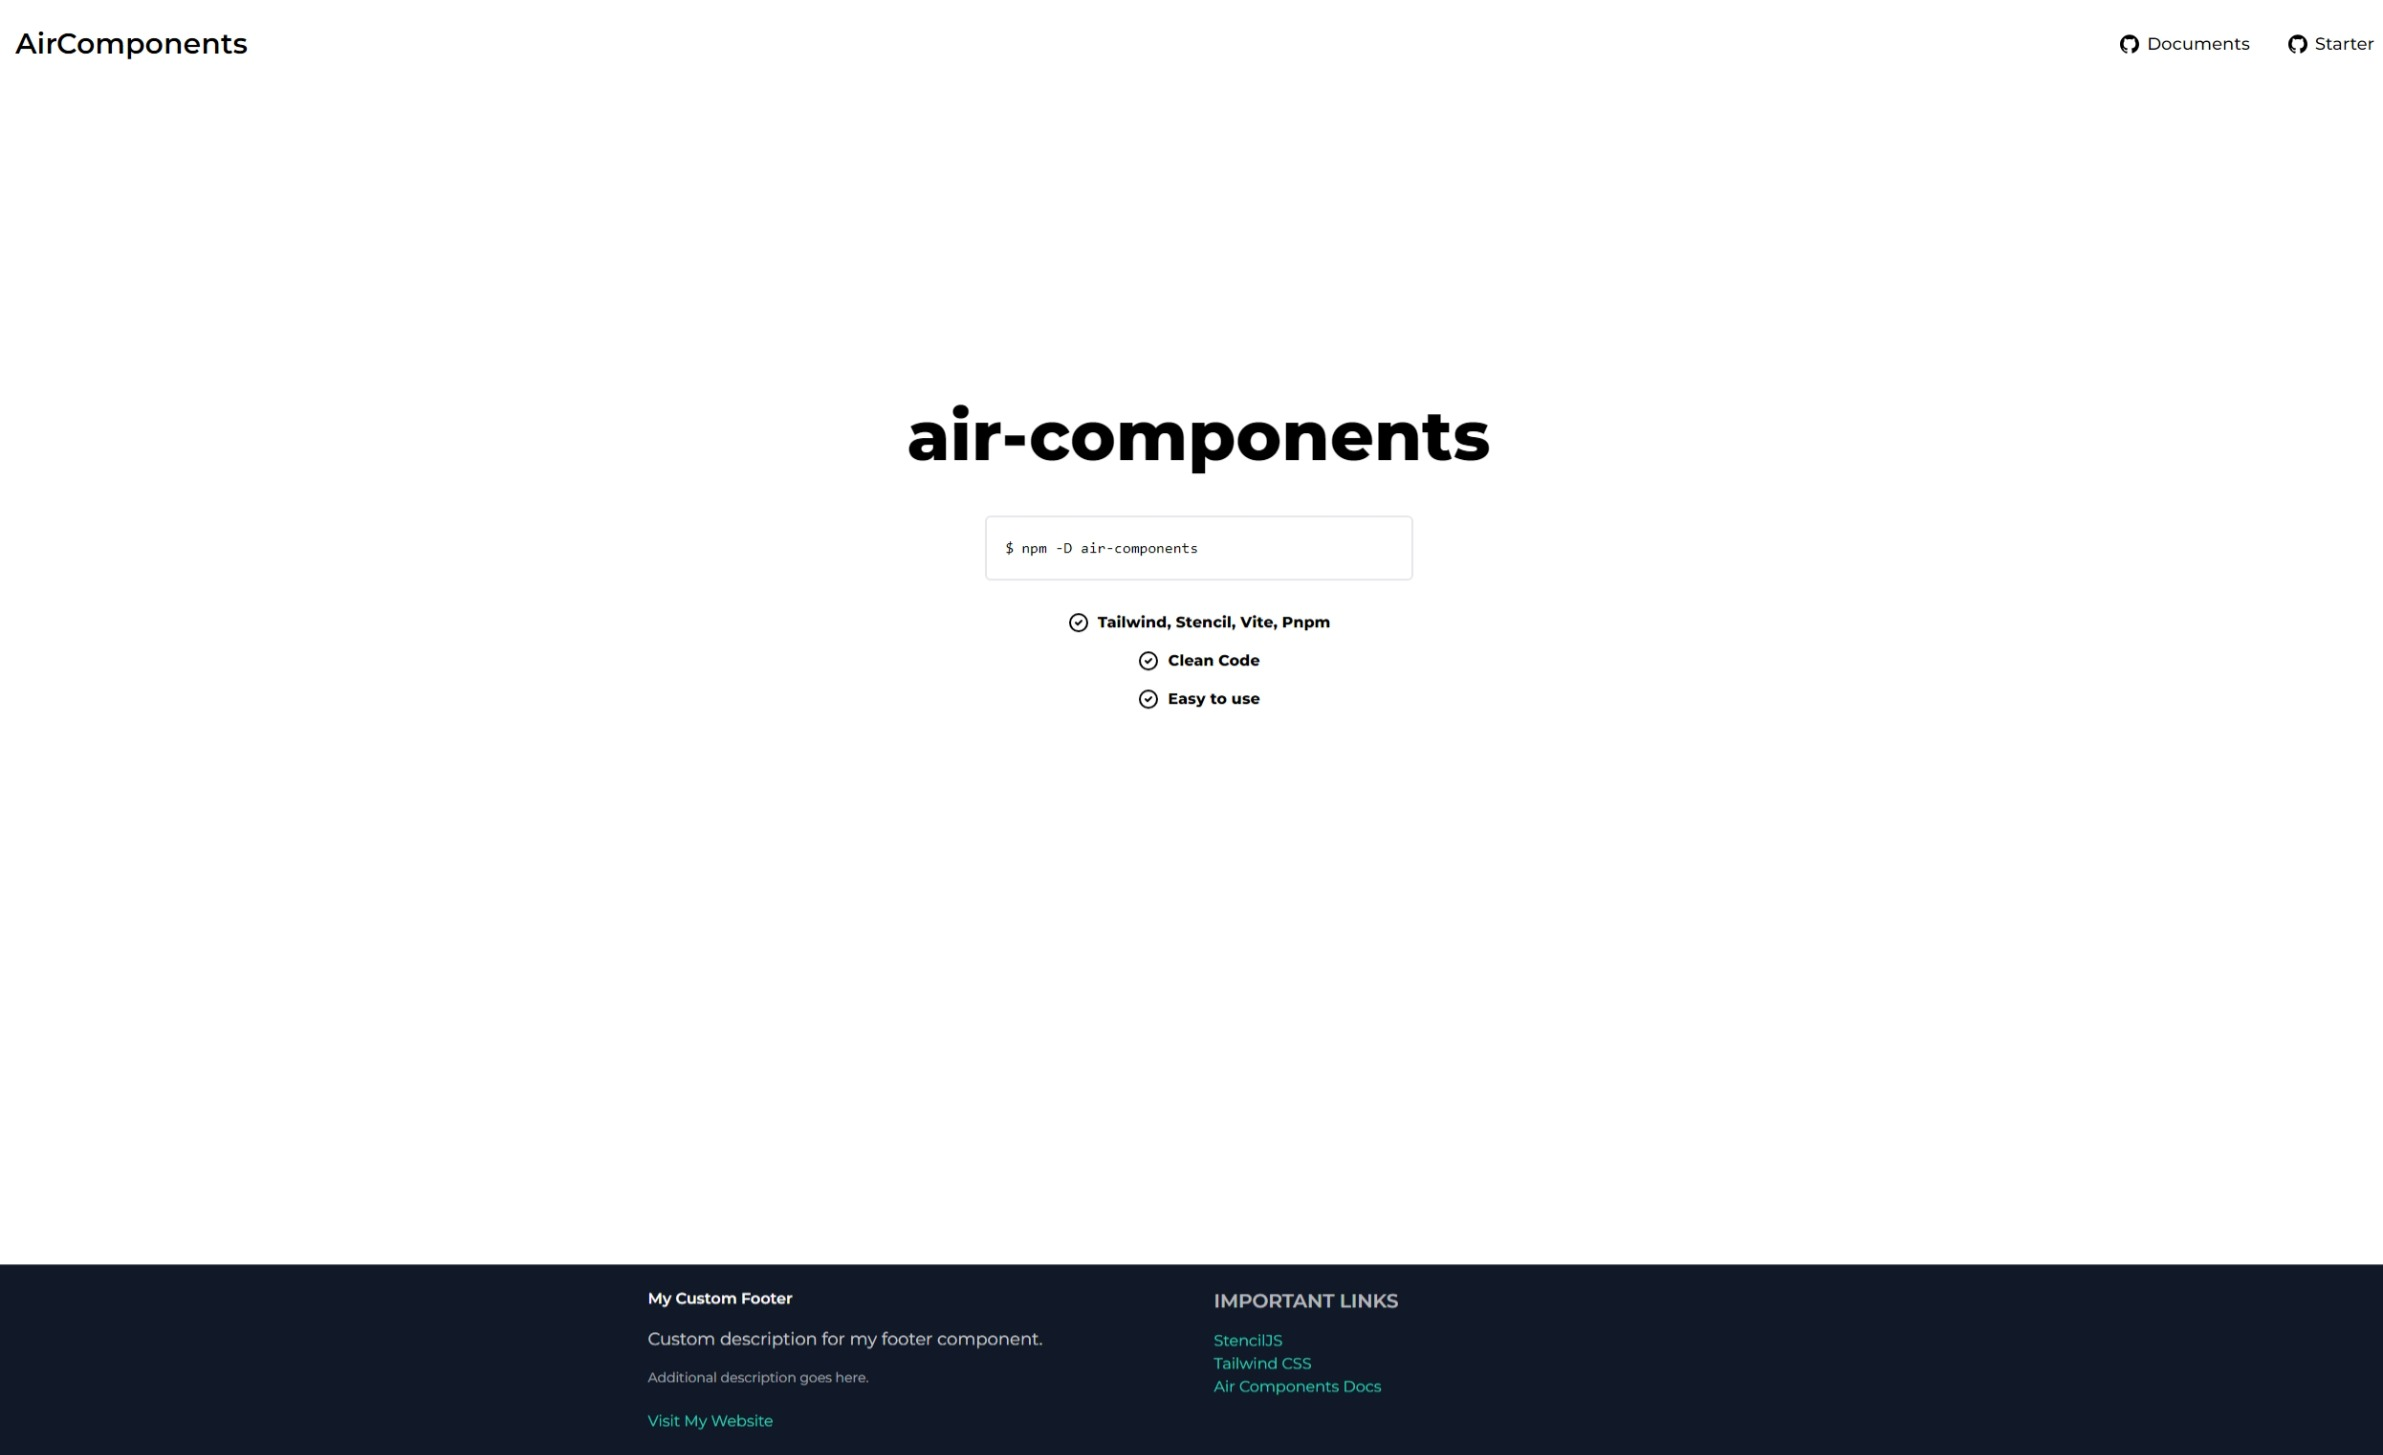
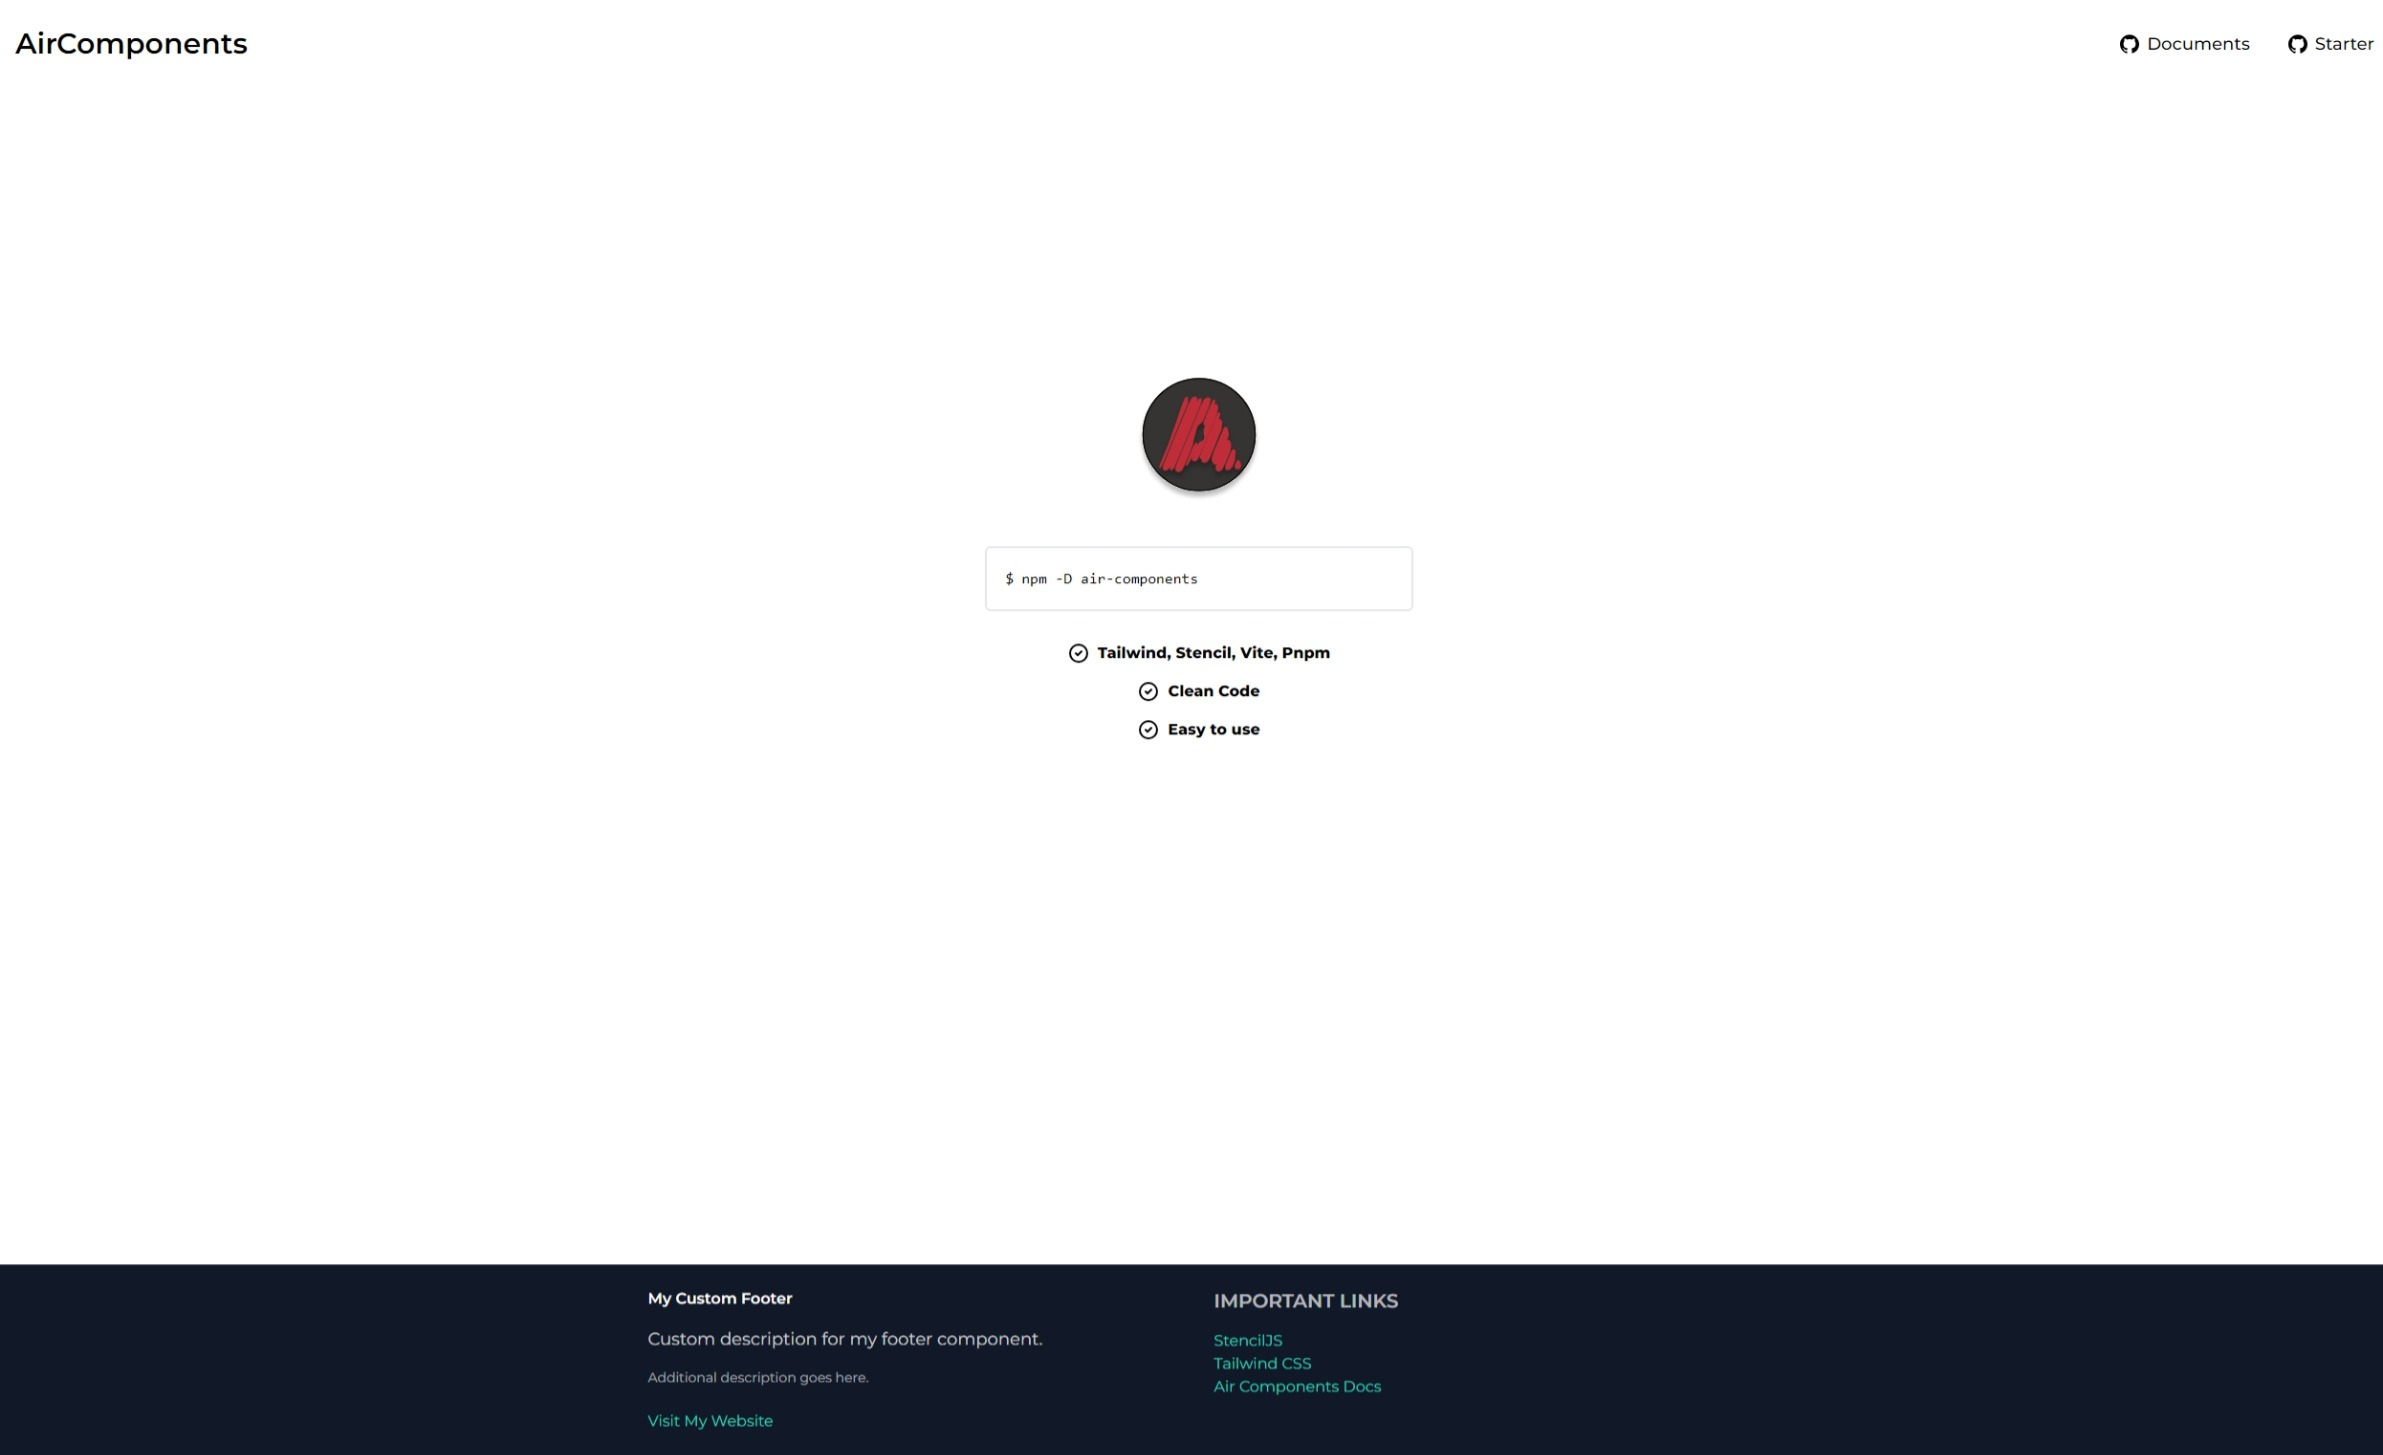
update

Changed region(s): [[0.3726, 0.2474, 0.6211, 0.3402], [0.4347, 0.3711, 0.559, 0.5258]]

diff --git a/src/components.d.ts b/src/components.d.ts
@@ -33,6 +33,8 @@ export namespace Components {
         "tags": string[];
         "title": string;
     }
+    interface AirExample {
+    }
     interface AirFootNav {
     }
     interface AirLinkButton {
@@ -53,8 +55,6 @@ export namespace Components {
         "titleText": string;
         "titleTextColor": string;
     }
-    interface HeroSection {
-    }
 }
 declare global {
     interface HTMLAirAvatarElement extends Components.AirAvatar, HTMLStencilElement {
@@ -74,6 +74,12 @@ declare global {
     var HTMLAirCardElement: {
         prototype: HTMLAirCardElement;
         new (): HTMLAirCardElement;
+    };
+    interface HTMLAirExampleElement extends Components.AirExample, HTMLStencilElement {
+    }
+    var HTMLAirExampleElement: {
+        prototype: HTMLAirExampleElement;
+        new (): HTMLAirExampleElement;
     };
     interface HTMLAirFootNavElement extends Components.AirFootNav, HTMLStencilElement {
     }
@@ -99,21 +105,15 @@ declare global {
         prototype: HTMLAirTopbarElement;
         new (): HTMLAirTopbarElement;
     };
-    interface HTMLHeroSectionElement extends Components.HeroSection, HTMLStencilElement {
-    }
-    var HTMLHeroSectionElement: {
-        prototype: HTMLHeroSectionElement;
-        new (): HTMLHeroSectionElement;
-    };
     interface HTMLElementTagNameMap {
         "air-avatar": HTMLAirAvatarElement;
         "air-button": HTMLAirButtonElement;
         "air-card": HTMLAirCardElement;
+        "air-example": HTMLAirExampleElement;
         "air-foot-nav": HTMLAirFootNavElement;
         "air-link-button": HTMLAirLinkButtonElement;
         "air-row": HTMLAirRowElement;
         "air-topbar": HTMLAirTopbarElement;
-        "hero-section": HTMLHeroSectionElement;
     }
 }
 declare namespace LocalJSX {
@@ -144,6 +144,8 @@ declare namespace LocalJSX {
         "tags"?: string[];
         "title"?: string;
     }
+    interface AirExample {
+    }
     interface AirFootNav {
     }
     interface AirLinkButton {
@@ -164,17 +166,15 @@ declare namespace LocalJSX {
         "titleText"?: string;
         "titleTextColor"?: string;
     }
-    interface HeroSection {
-    }
     interface IntrinsicElements {
         "air-avatar": AirAvatar;
         "air-button": AirButton;
         "air-card": AirCard;
+        "air-example": AirExample;
         "air-foot-nav": AirFootNav;
         "air-link-button": AirLinkButton;
         "air-row": AirRow;
         "air-topbar": AirTopbar;
-        "hero-section": HeroSection;
     }
 }
 export { LocalJSX as JSX };
@@ -184,11 +184,11 @@ declare module "@stencil/core" {
             "air-avatar": LocalJSX.AirAvatar & JSXBase.HTMLAttributes<HTMLAirAvatarElement>;
             "air-button": LocalJSX.AirButton & JSXBase.HTMLAttributes<HTMLAirButtonElement>;
             "air-card": LocalJSX.AirCard & JSXBase.HTMLAttributes<HTMLAirCardElement>;
+            "air-example": LocalJSX.AirExample & JSXBase.HTMLAttributes<HTMLAirExampleElement>;
             "air-foot-nav": LocalJSX.AirFootNav & JSXBase.HTMLAttributes<HTMLAirFootNavElement>;
             "air-link-button": LocalJSX.AirLinkButton & JSXBase.HTMLAttributes<HTMLAirLinkButtonElement>;
             "air-row": LocalJSX.AirRow & JSXBase.HTMLAttributes<HTMLAirRowElement>;
             "air-topbar": LocalJSX.AirTopbar & JSXBase.HTMLAttributes<HTMLAirTopbarElement>;
-            "hero-section": LocalJSX.HeroSection & JSXBase.HTMLAttributes<HTMLHeroSectionElement>;
         }
     }
 }

diff --git a/src/components/example/air-example.tsx b/src/components/example/air-example.tsx
@@ -1,8 +1,8 @@
 import { Component, Host, h } from '@stencil/core';
 
 @Component({
-  tag: 'hero-section',
-  styleUrl: 'hero-section.css',
+  tag: 'air-example',
+  styleUrl: 'air-example.css',
   shadow: true,
 })
 export class HeroSection {
@@ -10,10 +10,32 @@ export class HeroSection {
   render() {
     return (
       <Host>
+            <air-topbar>
+      <air-link-button
+        href="https://github.com/SisyphusZheng/AirComponents"
+        icon="https://cdn.jsdelivr.net/npm/simple-icons@v6/icons/github.svg"
+        label="Documents"
+        textColor="text-white-500"
+      ></air-link-button>
+      <air-link-button
+        href="https://github.com/SisyphusZheng/air-components-starter"
+        icon="https://cdn.jsdelivr.net/npm/simple-icons@v6/icons/github.svg"
+        label="Starter"
+        textColor="text-white-500"
+      ></air-link-button>
+    </air-topbar>
+    
         <div class="grid min-h-screen overflow-hidden place-items-center">
           <div class="flex flex-col justify-between w-full max-w-6xl gap-4 p-4 mt-10 mb-48 text-black">
             <h1 class="flex flex-col gap-2 py-4 mb-2 font-extrabold text-center text-black">
-              <span class="mb-2 text-5xl lg:text-7xl">air-components</span>
+              {/* Centered the logo */}
+              <div class="flex justify-center items-center mb-2">
+                <img 
+                  src="assets/air-components-logo.svg" 
+                  alt="Air Components Logo" 
+                  class="w-20 lg:w-32"  // Adjust the width as needed
+                />
+              </div>
             </h1>
             <div class="flex flex-col items-center justify-center w-full space-y-10 lg:space-x-4 lg:space-y-0 lg:flex-row">
               <div class="flex items-center w-full max-w-md gap-2 p-5 font-mono text-xs bg-transparent border-2 rounded-md md:text-base sm:text-sm border-opacity-40 text-black">
@@ -44,6 +66,14 @@ export class HeroSection {
             </div>
           </div>
         </div>
+
+        <air-foot-nav>
+      <span slot="title">My Custom Footer</span>
+      <span slot="description">Custom description for my footer component.</span>
+      <span slot="extra-description">Additional description goes here.</span>
+      <a slot="external-link" href="https://example.com">Visit My Website</a>
+      <span slot="links-title">Important Links</span>
+    </air-foot-nav>
       </Host>
     );
   }

diff --git a/src/index.html b/src/index.html
@@ -25,32 +25,7 @@
     <script nomodule src="./build/stencil-component-example.js"></script>
   </head>
   <body>
-    
-    <air-topbar>
-      <air-link-button
-        href="https://github.com/SisyphusZheng/AirComponents"
-        icon="https://cdn.jsdelivr.net/npm/simple-icons@v6/icons/github.svg"
-        label="Documents"
-        textColor="text-white-500"
-      ></air-link-button>
-      <air-link-button
-        href="https://github.com/SisyphusZheng/air-components-starter"
-        icon="https://cdn.jsdelivr.net/npm/simple-icons@v6/icons/github.svg"
-        label="Starter"
-        textColor="text-white-500"
-      ></air-link-button>
-    </air-topbar>
-
-    <hero-section></hero-section>
-    
-    <air-foot-nav>
-      <span slot="title">My Custom Footer</span>
-      <span slot="description">Custom description for my footer component.</span>
-      <span slot="extra-description">Additional description goes here.</span>
-      <a slot="external-link" href="https://example.com">Visit My Website</a>
-      <span slot="links-title">Important Links</span>
-    </air-foot-nav>
-    
+    <air-example/>
   </main>
   </body>
 </html>
